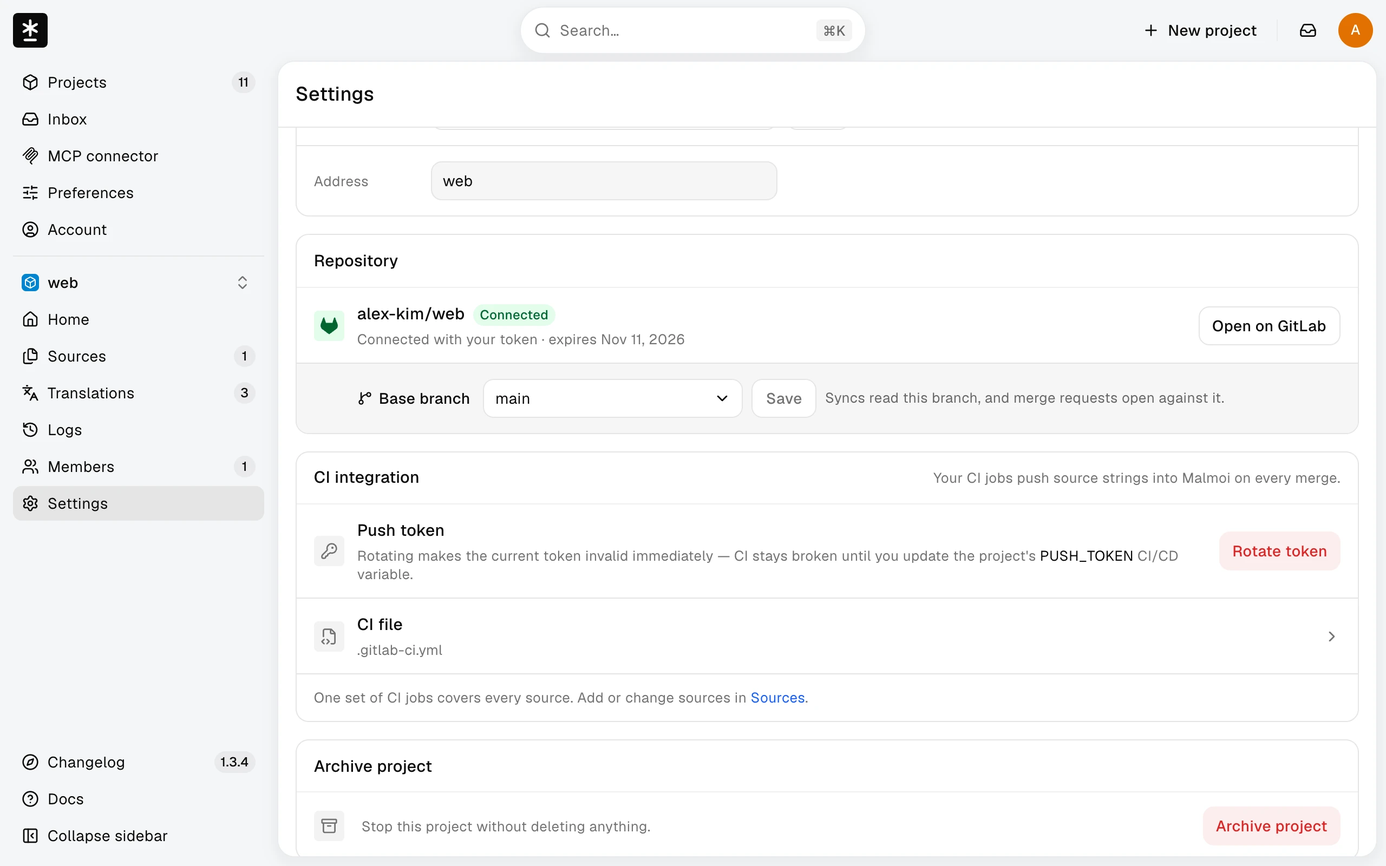
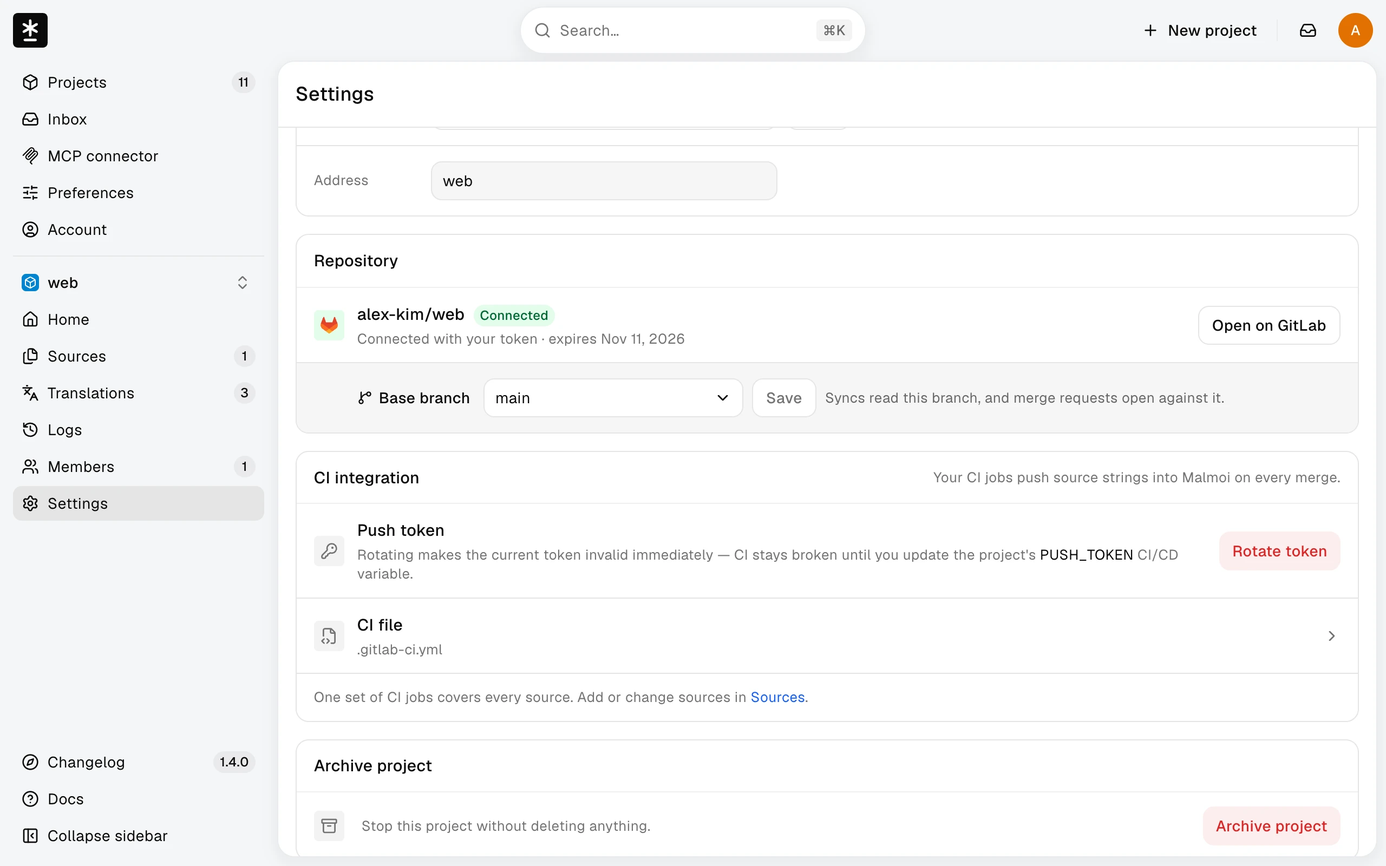
docs(guide): reshoot GitLab sign-in screenshots
Reshoot account, account-connections, sign-out-everywhere and the three
settings repository cards for the three-color GitLab glyph, the ink GitHub
glyph and the GitLab sign-in method row. The CI file dialog now shows the
pinned .gitlab-ci.yml jobs, so its screenshot moves to the Add the CI jobs
section in all three languages. Five cuts whose screen did not change get
their recorded SHAs updated.

diff --git a/guide/SHOOTING.md b/guide/SHOOTING.md
@@ -117,7 +117,7 @@
 | `/guide/mcp-create-token.webp` | `ai-agents/token.md#token` | EDITOR | MCP connector → Create token 모달 ①단계(만들지 않음 — ② 토큰 원문은 찍지 않는다) |
 | `/guide/mcp-connector.webp` | `ai-agents/browser.md#connected-apps` | OWNER | MCP connector — Connected apps(연결 둘, 로고 칸) + 토큰 카드(원문 없음) — Connect 카드는 2026-09-30에 걷었다 |
 | `/guide/gitlab-connect.webp` | `gitlab/create.md#select-repository` | OWNER | ①단계 GitLab 탭 — 연결 계정 줄(만료일 · Replace token) + 프로젝트 목록, `malmoi-gitlab-test` 선택 + Branch `main` |
-| `/guide/gitlab-ci-file.webp` | `gitlab/ci.md#ci-unavailable` | OWNER | GitLab 프로젝트 Settings → CI integration → CI file 모달 — 지금은 CI 파일 미릴리스 안내(릴리스 SHA가 채워지면 YAML·변수 안내로 바뀐다 — 그때 재촬영하고 `#gitlab-ci`로 옮길지 `/guide`가 정한다) |
+| `/guide/gitlab-ci-file.webp` | `gitlab/ci.md#gitlab-ci` | OWNER | GitLab 프로젝트 Settings → CI integration → CI file 모달 — 생성된 `.gitlab-ci.yml` 작업(릴리스 SHA 고정, `MALMOI_I18N_API_URL` 줄은 호스팅 출력에 없다 — 화면 아래라 컷 밖) |
 | `/guide/gitlab-repository-card.webp` | `gitlab/troubleshooting.md#gitlab-access` | OWNER | GitLab 프로젝트 Settings — Repository 카드(연결 행 · `Connected with your token · expires …` · Base branch)를 패널 위쪽으로 스크롤 |
 | `/guide/oauth-consent.webp` | `ai-agents/browser.md#browser` | OWNER | `/oauth/authorize` 동의 화면 — claude.ai CIMD 요청(Authorize 누르지 않음), Translate & publish 하나 체크 |
 | `/guide/create-github-install.webp` | `github/create.md#connect-github` | EDITOR(GitHub 미연결 계정) | ①단계 GitHub 탭 미연결 — Connect your repositories · Install GitHub App · Connect your account |
@@ -165,7 +165,7 @@
 | /guide/sources.webp | components/sources/sources-screen.tsx, components/sources/source-status.tsx | 9c56251ca5cb419d3cdf7659f9aade9512fa9eaf, 3df5a25bcf1d94eee8d15176730ab652a9c18a9c | 2560x1600 |
 | /guide/add-sources.webp | components/sources/add-sources-modal.tsx | 3a68b93e1836d12f8bef9de4e7aad708b0aa3f7c | 2560x1600 |
 | /guide/archive-card.webp | components/settings/archive-card.tsx | fbf5ba1bd7b87ff3c8ea910d2876d810b3deb440 | 2560x1600 |
-| /guide/accept-invitation.webp | app/invite/[token]/page.tsx, components/invite/project-card.tsx, components/signin/auth-layout.tsx | 1478fc3b94bfa1813c8467467b00b3cda61aa0b4, f9d7dc35d9d0493e3105516374f0e78a24ad7fe2, ba72c94d3b0d2211607221055fa104ef50e4b032 | 2560x1600 |
+| /guide/accept-invitation.webp | app/invite/[token]/page.tsx, components/invite/project-card.tsx, components/signin/auth-layout.tsx | d4d36ad336ad4d41488b964252c22a299fd49457, f9d7dc35d9d0493e3105516374f0e78a24ad7fe2, ba72c94d3b0d2211607221055fa104ef50e4b032 | 2560x1600 |
 | /guide/state-filter.webp | components/translations/workspace/filter-menu.tsx, components/translations/workspace/key-list.tsx, dict:translations.workspace.filters.state.any, dict:translations.workspace.filters.state.incomplete, dict:translations.workspace.filters.state.unsent, dict:translations.workspace.filters.state.review, dict:translations.workspace.filters.state.new | 0d6e722c777ce3d4d3cdba98015793f38c2cbb4a, 2c42ea96c69fe2f89dd975ed4d0435bab8f2df2b, b823bb9b42b3672439670b5267fe5328d7524380, 387fd1bbc18419e26c612f4acad9213e5073ade4, 0d09fa0d8c890b48da20aefe409a39eb962b5114, 33a506cf6ec5a56c261838f0a5a3d29cd7f2dacc, 56539cd31aeb7453fb2900c2952b988146fd6127 | 2560x1600 |
 | /guide/inbox-open.webp | components/shell/attention-inbox.tsx, lib/home/attention-view.ts, lib/inbox/plan.ts, components/inbox/row-slots.tsx | 923e6db193fd4c529d08b90415ec621c149ea0b2, edbbb141b2877391ee384376b69298ae30d301da, 4145fd76f2c3729a2975d9c5f53c87195e710f80, 733b1e879b07ca09c03a8687fde5d75a037fde68 | 2560x1600 |
 | /guide/inbox-page.webp | app/(edit)/inbox/page.tsx, components/inbox/inbox-list.tsx, components/inbox/row-slots.tsx, lib/inbox/plan.ts | df74c31a4dd36d61615638890d73981e0d854782, be439ea0b57a08136990b9c26fa176cb9a84c38e, 733b1e879b07ca09c03a8687fde5d75a037fde68, 4145fd76f2c3729a2975d9c5f53c87195e710f80 | 2560x1600 |
@@ -175,43 +175,43 @@
 | /guide/revert-confirm.webp | components/translations/workspace/workspace.tsx, components/translations/edit-loss-banner.tsx, components/translations/workspace/key-list.tsx | c1c8ccf51ce92d39c56260381fe756aefc9ca6bb, 1c1091fe8e495bea05b41e9022bb758b522c15e4, 2c42ea96c69fe2f89dd975ed4d0435bab8f2df2b | 2560x1600 |
 | /guide/sync-discard.webp | components/home/sync-button.tsx | 03c75034b48b58f0208b5c625d2e2f4ef7a18b35 | 2560x1600 |
 | /guide/logs-event.webp | components/logs/event-dialog.tsx, components/logs/event-detail.tsx | f76913a6d8972a169402769e9951ef6dbb9a79bb, 60f6fc110edf8df5e7774b2c1aa1cdd4f4c05998 | 2560x1600 |
-| /guide/account.webp | app/(edit)/account/page.tsx, components/account/profile-picture.tsx, components/account/login-methods.tsx, components/account/github-section.tsx, components/account/gitlab-section.tsx | 42fb47a6e8fbe410344cb6fa3c9613d02b207abf, c4ea53b3f682c942003dac5b81bb7eb80a72d269, a81d7ab6bacf7642a6b95a090713b81d89ed1be4, 555c889cb02f999c49bd06e0fc72c5c331e7d814, 1df2241c8121b251f5f7c4db906828937ed0ded4 | 2560x1600 |
+| /guide/account.webp | app/(edit)/account/page.tsx, components/account/profile-picture.tsx, components/account/login-methods.tsx, components/account/github-section.tsx, components/account/gitlab-section.tsx | 3a7b63f8d153d5bd28e8c5f01885937aa5697952, c4ea53b3f682c942003dac5b81bb7eb80a72d269, 533e6a97c384e8720357073991cd99e8e4ae2fe5, 14e5cf37c07bc1e566ce9aa32ce6392663269af2, 1925ee36a6dc1bb83791d096b39fb13bdc845490 | 2560x1600 |
 | /guide/footer-language-menu.webp | components/i18n/locale-switcher.tsx, lib/i18n/locales.ts | c71d7813e91fdb33e9144151d6dcdf1f5f34d12d, 7ae40a45e0677ae93a26e331d74bda1680d403da | 2560x1600 |
 | /guide/preferences-language.webp | app/(edit)/preferences/page.tsx, components/preferences/language-card.tsx, components/preferences/time-zone-card.tsx, components/preferences/preference-select-card.tsx, components/preferences/theme-card.tsx, dict:uiLocale.label, dict:preferences.help | ba45481f1bad944a5b4582d56b5ea6e84e141d6e, 35fad581fb2f5b7b9ab4b854151513f55fa608bd, e89003ad1ccfc47db86ab5c6afc09e6f95d6aefb, b3369b152d1f9da4cc00f01dddb6fc036d14d504, 746bc2ed9e956bd3947b9a0aed92e406ae32af56, 89b86ab0e66f527166d98df92ddbcf5416ed58f6, 7a750458e565a71d07b3e10a45654499a58c2673 | 2560x1600 |
 | /guide/mcp-create-token.webp | components/mcp/token-modal.tsx, components/mcp/token-grant-fields.tsx | c96820a9c8869d021052c5873b0404cfc8e3e7b4, ad7e6129db1f932a7d9ef42b0d18756abe81552f | 2560x1600 |
 | /guide/mcp-connector.webp | components/mcp/connected-apps-card.tsx, components/mcp/token-card.tsx | d1b7da7f5c88d00c7e5ec339af86bf1e4f8cc8de, 6ee9dfbfd2a737c4009610cbf1b0ffc140cc874c | 2560x1600 |
-| /guide/oauth-consent.webp | app/oauth/authorize/page.tsx, components/oauth/consent-panel.tsx, components/oauth/app-card.tsx, components/mcp/token-grant-fields.tsx | e838a660b030cfd1a10c80729ef68068e3449581, 6dbe67b7adc44b561d2d6eda73322f83e93e8cae, f84a8047e035ed76fe1411941a3c8086844c4455, ad7e6129db1f932a7d9ef42b0d18756abe81552f | 2560x1600 |
+| /guide/oauth-consent.webp | app/oauth/authorize/page.tsx, components/oauth/consent-panel.tsx, components/oauth/app-card.tsx, components/mcp/token-grant-fields.tsx | 24d99a8ad9ff2ba3cc7ae04a9e8c458dd937711f, 6dbe67b7adc44b561d2d6eda73322f83e93e8cae, f84a8047e035ed76fe1411941a3c8086844c4455, ad7e6129db1f932a7d9ef42b0d18756abe81552f | 2560x1600 |
 | /guide/create-repository.webp | components/onboarding/new-project.tsx, components/onboarding/steps/repo.tsx | d082e1b6ca92373b70ca7b151c439d7a15358521, 4b0847a050c26dfcdef9e4cdd55d272587a1ab0f | 2560x1600 |
 | /guide/create-files.webp | components/onboarding/new-project.tsx, components/onboarding/steps/files.tsx | d082e1b6ca92373b70ca7b151c439d7a15358521, fceda1dfa1ca991fe98dfded0d8a65d12df6b4e2 | 2560x1600 |
 | /guide/create-name.webp | components/onboarding/new-project.tsx, components/onboarding/steps/naming.tsx | d082e1b6ca92373b70ca7b151c439d7a15358521, 1807e066e59178bc07308716bfcf6e17f5e0b79d | 2560x1600 |
 | /guide/create-ready.webp | components/onboarding/new-project.tsx, components/onboarding/steps/result.tsx, components/onboarding/workflow-block.tsx | d082e1b6ca92373b70ca7b151c439d7a15358521, 605e3daa3a6276eee53cf7564ad57f7cb2e406d8, e0ac1f57f9f9030693e91490d78a1e8fb03714ec | 2560x1600 |
 | /guide/gitlab-connect.webp | components/onboarding/new-project.tsx, components/onboarding/steps/repo.tsx | d082e1b6ca92373b70ca7b151c439d7a15358521, 4b0847a050c26dfcdef9e4cdd55d272587a1ab0f | 2560x1600 |
-| /guide/gitlab-ci-file.webp | components/settings/ci-card.tsx, components/onboarding/workflow-block.tsx, lib/onboarding/gitlab-ci.ts | fac88a0789fb7a98772a4a91085c4fbaa86099c9, e0ac1f57f9f9030693e91490d78a1e8fb03714ec, 680955099d6eadca5883fef2aa440e160a83a0db | 2560x1600 |
-| /guide/gitlab-repository-card.webp | components/settings/repository-card.tsx, app/(edit)/projects/[slug]/settings/page.tsx | 44acf6af93b147e5ee63ee750a0ca8636ef6fb4b, 47ff29741aedf6c233ce93830805293f203573da | 2560x1600 |
+| /guide/gitlab-ci-file.webp | components/settings/ci-card.tsx, components/onboarding/workflow-block.tsx, lib/onboarding/gitlab-ci.ts | fac88a0789fb7a98772a4a91085c4fbaa86099c9, e0ac1f57f9f9030693e91490d78a1e8fb03714ec, 13c632fbd9567a0f78f2d1193f18ab3a9fdaf0fe | 2560x1600 |
+| /guide/gitlab-repository-card.webp | components/settings/repository-card.tsx, app/(edit)/projects/[slug]/settings/page.tsx | 9c39b9487042b401f4d16811dc3087bda0d389ac, 47ff29741aedf6c233ce93830805293f203573da | 2560x1600 |
 | /guide/create-github-install.webp | components/onboarding/new-project.tsx, components/onboarding/steps/repo.tsx | d082e1b6ca92373b70ca7b151c439d7a15358521, 4b0847a050c26dfcdef9e4cdd55d272587a1ab0f | 2560x1600 |
 | /guide/github-app-install-target.webp | lib/github-connect/installation-url.ts | 911b45fddf7075c17cfb982ec66b9a0018f35afa | 2560x1600 |
 | /guide/github-app-install.webp | lib/github-connect/installation-url.ts | 911b45fddf7075c17cfb982ec66b9a0018f35afa | 2560x1600 |
 | /guide/gitlab-connect-token.webp | components/onboarding/new-project.tsx, components/onboarding/steps/repo.tsx, components/gitlab/token-form.tsx | d082e1b6ca92373b70ca7b151c439d7a15358521, 4b0847a050c26dfcdef9e4cdd55d272587a1ab0f, ef2b5e0bf7f45739b6266ccbc8e892cd3738934a | 2560x1600 |
 | /guide/gitlab-pat-form.webp | components/gitlab/token-form.tsx | ef2b5e0bf7f45739b6266ccbc8e892cd3738934a | 2560x1600 |
 | /guide/gitlab-pat-scopes.webp | components/gitlab/token-form.tsx | ef2b5e0bf7f45739b6266ccbc8e892cd3738934a | 2560x1600 |
-| /guide/gitlab-ci-variable.webp | lib/onboarding/gitlab-ci.ts | 680955099d6eadca5883fef2aa440e160a83a0db | 2560x1600 |
-| /guide/gitlab-protected-branch.webp | lib/onboarding/gitlab-ci.ts | 680955099d6eadca5883fef2aa440e160a83a0db | 2560x1600 |
+| /guide/gitlab-ci-variable.webp | lib/onboarding/gitlab-ci.ts | 13c632fbd9567a0f78f2d1193f18ab3a9fdaf0fe | 2560x1600 |
+| /guide/gitlab-protected-branch.webp | lib/onboarding/gitlab-ci.ts | 13c632fbd9567a0f78f2d1193f18ab3a9fdaf0fe | 2560x1600 |
 | /guide/home-sync-tab.webp | app/(edit)/projects/[slug]/(home)/page.tsx, components/home/meta-column.tsx, components/home/meta-tabs.tsx, components/home/sync-result.tsx | e1da6ab9dc0773da5c543619d85b06efba41cbb2, 0e67fc7c827d5c28da3bf0c9f7ea71a127c27c6f, 326a71e9fadefec3992bad2e9acf0192fa107a35, aca196a214f9e8e6c9f460da7126300de24fc04a | 2560x1600 |
 | /guide/logs-list.webp | app/(edit)/projects/[slug]/logs/page.tsx, components/logs/log-filters.tsx, components/logs/event-row.tsx | 965a0af77acd975284dd5de8cec3b7b17207000a, 8d9380cf37e4a71f31ad628ab2131e396c341f3a, b4f3a62675838cb0380dbae298687702ad170009 | 2560x1600 |
 | /guide/source-details.webp | components/sources/source-detail-modal.tsx, components/sources/base-language-form.tsx | fef5657793714485d4690894b1102340e7ee2821, dc1f4eafdd1817c41cb726570ce4a87edeb05144 | 2560x1600 |
 | /guide/source-remove.webp | components/sources/remove-source-dialog.tsx, components/sources/source-detail-modal.tsx | 5eb13a9ed0df2a070105176aae30556177423001, fef5657793714485d4690894b1102340e7ee2821 | 2560x1600 |
 | /guide/archive-restore.webp | components/settings/archive-card.tsx, app/(edit)/projects/[slug]/settings/page.tsx | fbf5ba1bd7b87ff3c8ea910d2876d810b3deb440, 47ff29741aedf6c233ce93830805293f203573da | 2560x1600 |
-| /guide/account-connections.webp | components/account/github-section.tsx, components/account/gitlab-section.tsx, components/account/sessions-section.tsx | 555c889cb02f999c49bd06e0fc72c5c331e7d814, 1df2241c8121b251f5f7c4db906828937ed0ded4, 9255317efca816245aef826e503af31e545a22e9 | 2560x1600 |
-| /guide/sign-out-everywhere.webp | components/account/sessions-section.tsx | 9255317efca816245aef826e503af31e545a22e9 | 2560x1600 |
+| /guide/account-connections.webp | components/account/github-section.tsx, components/account/gitlab-section.tsx, components/account/sessions-section.tsx | 14e5cf37c07bc1e566ce9aa32ce6392663269af2, 1925ee36a6dc1bb83791d096b39fb13bdc845490, 4e732e70ca663f3f9cbc6e5616c2d3ac550f6412 | 2560x1600 |
+| /guide/sign-out-everywhere.webp | components/account/sessions-section.tsx | 4e732e70ca663f3f9cbc6e5616c2d3ac550f6412 | 2560x1600 |
 | /guide/preferences-time-zone.webp | components/preferences/time-zone-card.tsx, components/preferences/preference-select-card.tsx | e89003ad1ccfc47db86ab5c6afc09e6f95d6aefb, b3369b152d1f9da4cc00f01dddb6fc036d14d504 | 2560x1600 |
-| /guide/invite-unavailable.webp | app/invite/[token]/page.tsx | 1478fc3b94bfa1813c8467467b00b3cda61aa0b4 | 2560x1600 |
+| /guide/invite-unavailable.webp | app/invite/[token]/page.tsx | d4d36ad336ad4d41488b964252c22a299fd49457 | 2560x1600 |
 | /guide/global-search.webp | components/search/search-dialog.tsx | db77550c790611dc205739a8e22e70ab6949ea49 | 2560x1600 |
 | /guide/translation-edit.webp | components/translations/workspace/locale-panel.tsx, components/translations/workspace/key-list.tsx, components/translations/workspace/workspace.tsx | 16a52148f9dd92485ab8e8c1df19e4045de91a50, 2c42ea96c69fe2f89dd975ed4d0435bab8f2df2b, c1c8ccf51ce92d39c56260381fe756aefc9ca6bb | 2560x1600 |
 | /guide/unsaved-changes.webp | components/translations/workspace/workspace.tsx | c1c8ccf51ce92d39c56260381fe756aefc9ca6bb | 2560x1600 |
-| /guide/github-repository-card.webp | components/settings/repository-card.tsx, app/(edit)/projects/[slug]/settings/page.tsx | 44acf6af93b147e5ee63ee750a0ca8636ef6fb4b, 47ff29741aedf6c233ce93830805293f203573da | 2560x1600 |
+| /guide/github-repository-card.webp | components/settings/repository-card.tsx, app/(edit)/projects/[slug]/settings/page.tsx | 9c39b9487042b401f4d16811dc3087bda0d389ac, 47ff29741aedf6c233ce93830805293f203573da | 2560x1600 |
 | /guide/repository-not-listed.webp | components/onboarding/steps/repo.tsx, components/onboarding/new-project.tsx | 4b0847a050c26dfcdef9e4cdd55d272587a1ab0f, d082e1b6ca92373b70ca7b151c439d7a15358521 | 2560x1600 |
 | /guide/rotate-token.webp | components/settings/push-token-panel.tsx, components/settings/ci-card.tsx | d6f18734ba4ba7bdf579e8c0916a1c458bb1e8cb, fac88a0789fb7a98772a4a91085c4fbaa86099c9 | 2560x1600 |
-| /guide/gitlab-token-expiring.webp | components/settings/repository-card.tsx | 44acf6af93b147e5ee63ee750a0ca8636ef6fb4b | 2560x1600 |
+| /guide/gitlab-token-expiring.webp | components/settings/repository-card.tsx | 9c39b9487042b401f4d16811dc3087bda0d389ac | 2560x1600 |
 | /guide/gitlab-token-refused.webp | components/onboarding/steps/repo.tsx, components/gitlab/token-form.tsx | 4b0847a050c26dfcdef9e4cdd55d272587a1ab0f, ef2b5e0bf7f45739b6266ccbc8e892cd3738934a | 2560x1600 |
 
 - ⚠ **셸이 컷에 들어간 뒤로 LNB·패널 머리·카드 머리(`components/shell/**`·`components/ui/panel-card.tsx` 등)의 변경도 모든 컷을 낡게 한다** — 소스로 올리면 신호가 죽으므로(`messages/en.tsx`와 같은 이유) 올리지 않는다. 셸을 바꿨으면 컷 전체를 손으로 다시 본다.
@@ -280,3 +280,4 @@
 - 2026-10-13 gitlab-repositories GS — `guide:check` stale 14컷(22건) 정리 + GitLab 컷 셋 **추가**. **재촬영 6**(1280×800 · DPR 2, WebP quality 90): `project-home` · `home-publish`(Home Project 탭에 `Platform` 행 — GitHub 글리프 + 이름) · `publish-preview` · `publish-result`(Dim 뒤 Home 메타 열이 그 행만큼 내려갔다) · `account`(맨 아래 `GitLab PAT` 카드가 섰다 — 매핑에 `gitlab-section.tsx`를 더했다) · `create-repository`(① 머리에 `GitHub | GitLab` 탭). **SHA만 갱신 8** — 새 캡처를 기존 파일과 픽셀 대조(채널 합 60 초과)해 차이가 셸 배지(Projects 10→11 · Changelog 1.3.1→1.3.4)·상대 시각·Dim 뒤 흐린 목록뿐임을 확인했다: `workflow-file`(GitHub 프로젝트는 같은 경로·힌트 링크) · `translation-editor` · `revert-confirm`(`RepoHostScope` 감싸기·이탈 가드 로직) · `sources`(호스트 글리프 분기 + sr-only 이름) · `home-paused`(Sync 탭 — `Platform` 행은 Project 탭에만 선다) · `create-files` · `create-name`(②③ 대화상자 차이 0) · `create-ready`(**재캡처 없음** — ④는 일회용 프로젝트가 필요하다. `result.tsx`·`workflow-block.tsx`·`new-project.tsx`의 ④ 변경은 전부 `forHost(…, "github")`가 원래 노드를 돌려주는 GitLab 갈래이고 GitHub 출력은 같다). **추가 3**: `gitlab-connect`(`create/gitlab.md#select-repository` — 단계 목록 뒤) · `gitlab-ci-file`(`create/gitlab-ci.md#ci-unavailable` — 지금 화면이 미릴리스 안내라 그 절에 두었다. 매핑에 `lib/onboarding/gitlab-ci.ts`를 올려 릴리스 SHA가 채워지면 stale이 된다) · `gitlab-repository-card`(`reference/troubleshooting-gitlab.md#gitlab-access` — 설정 카드를 설명하는 유일한 절이다. `connect-gitlab`은 ① 컷이 이미 그 작업 페이지의 한 장이고 연결 계정 줄도 그 컷에 있다). 세 언어 원고에 같은 경로로 참조를 넣었다(이번 런 예외 승인 — alt·title은 언어별). 셋업: GitLab 프로젝트 `malmoi-gitlab-test`(dev DB 상주, `ox501501/malmoi-gitlab-test` · PAT 만료 2026-11-11 — 14일 밖이라 만료 예정 띠 없음)를 그대로 썼고 PAT를 다시 넣지 않았다. ①의 GitLab 탭은 프로젝트를 고르고 Branch `main`까지만(Next 안 누름). 테마는 계정 값(`dark`)을 바꾸지 않고 캡처 직전 `<html data-theme>`을 `light`로 바꿨다(+ `prefers-color-scheme: light` 에뮬레이션). OWNER `checkout.submit` de `Jetzt bestellen` → `home-paused`·`revert-confirm` 대조 캡처 → 실제 Revert · EDITOR(Google) `checkout.submit` fr `Passer la commande` → `home-publish`·`publish-preview`(PR 안 엶) → 빈 값 재저장 → Publish(`Nothing differs`) → `publish-result` → OWNER(GitHub)로 재로그인. 전후 대조: 미전달 0→0(전 프로젝트), `acme-web` 사건 68→73(편집·Revert · 편집·재저장·Publish), 전체 사건 740→745, OAuth 연결·API 토큰 0→0, `GitLabConnection` 1건 그대로(만료·갱신 시각 불변), 계정 언어·테마·`attentionSeenAt` 불변, GitHub 쓰기 없음, GitLab 테스트 프로젝트는 `main`만 · 열린 MR 0 그대로. ⚠ **새로 밟은 것**: ① GitLab 치환(`ox501501` → `alex-kim`)을 OWNER 이메일 정규식(`ox501…@gmail.com`)보다 먼저 걸면 주소가 `alex-kim@gmail.com`이 됐다가 일반 gmail 치환에 `jordan.lee@…`로 바뀐다 — GitLab 쌍은 사람 치환 **뒤에** 건다. ② ①의 GitLab 목록은 탭을 처음 열 때 서버가 GitLab을 부른다 — 라디오가 설 때까지 기다린다. ③ ①의 GitLab 대화상자는 GitHub 탭보다 낮아 세로 위치가 다르다(목록 둘).
 - 2026-10-13 **Create 장 분리 + 컷 25장 추가**(사용자 — "앱 설치·PAT 발급 과정을 더 찍어", "깃헙·깃랩 각각 트러블슈팅 가이드 — 에러 상황 재현", "가이드 전체를 확인하고 스크린샷 적극 추가"). 추가(전부 1280×800 · DPR 2): ① 만들기 — `create-github-install`(EDITOR 계정이 GitHub 미연결이라 그 세션으로) · `github-app-install-target` · `github-app-install`(github.com, 설치 확정 안 함) · `gitlab-connect-token`(EDITOR 세션, GitLab 미연결) · `gitlab-pat-form` · `gitlab-pat-scopes`(gitlab.com 프리필 링크, 토큰 안 만듦) · `gitlab-ci-variable`(서랍 Cancel — 저장 안 함) · `gitlab-protected-branch`. ② 설정·동기화·계정·번역 — `home-sync-tab` · `logs-list` · `source-details` · `source-remove`(Cancel) · `archive-restore`(보관된 `audit-q-261007`, Restore 안 누름) · `account-connections` · `sign-out-everywhere`(Cancel) · `preferences-time-zone` · `invite-unavailable` · `global-search` · `translation-edit` · `unsaved-changes`(Escape로 입력 되돌림 — 저장 0). ③ 트러블슈팅 재현 — `github-repository-card` · `repository-not-listed`(없는 검색어) · `rotate-token`(Cancel) · `gitlab-token-refused`(가짜 토큰 `glpat-…`으로 Replace token — GitLab 401, 저장 0) · `gitlab-token-expiring`(개발 DB `GitLabConnection.expiresAt`을 그 id로 좁혀 촬영 동안만 10월 23일로 앞당기고 원래 값 2026-11-11로 되돌림). **못 찍은 것**: GitHub Actions·GitLab 파이프라인의 현행(v3) 실패 로그 — 테스트 리포에 남은 실행은 옛 v1(한국어 출력)뿐이고, 새로 만들려면 리포에 시크릿을 써야 한다. `Sync failed` 홈 — 개발 DB에 실패 사건이 없고, 만들면 상주 프로젝트 Logs에 지울 수 없는 사건이 남는다. 테마 메뉴 — 촬영 계정 테마가 Dark라 메뉴 값이 컷의 라이트 화면과 어긋난다. **SHA만 갱신 2**: `workflow-file` · `gitlab-ci-file` — `ci-card.tsx`는 가이드 링크 경로(`setup/*` → `create/*`)와 주석만 바뀌어 화면이 같다.
 - 2026-10-13 GitLab 감사 리팩터 QA — `guide:check` stale 17컷(19건) 전부 **재촬영 없이 SHA만 갱신**. 바뀐 소스 여섯의 diff가 화면을 바꾸지 않는다: `gitlab-section.tsx`·`steps/repo.tsx`·`repository-card.tsx`는 만료일 생산자 `formatDay`→`formatDateOnly`(결정 R1 — en·UTC에서 둘 다 `Nov 11, 2026`·`Oct 23, 2026`을 낸다고 실측했고, 촬영 계정 시간대는 UTC다) · `token-form.tsx`는 거부 매핑 함수 교체(`gitlabTokenErrorMessage` — GitLab 거부는 같은 `gitlabConnectErrorMessage` 문장으로 떨어진다. 같은 날 `/account` 폼에서 가짜 토큰 거부 문장 `GitLab didn't accept this token…`을 실측했다) · `ci-card.tsx`는 GitLab 힌트 링크의 href(`create/gitlab-ci` → `gitlab/ci`)와 주석 · `sync-result.tsx`는 실행권 전 거부 집합에 `gitlab-project-disconnected` 하나(컷은 성공 결과다). 대조 캡처 둘(`account-connections` · `gitlab-repository-card`, OWNER, 1280×800 · DPR 2)을 기존 파일과 픽셀 대조했다 — 차이는 목록 구역 썸네일 치환 타일 색·아바타 글자(촬영 치환물)와 스크롤 0.3px 반올림뿐이었다(반영하지 않았다). DB·계정 쓰기 없음(같은 세션의 런타임 QA가 GitLab 연결 해제·재연결로 `GitLabConnection` id를 바꿨지만 만료일·사용자명은 같다 — `Connected` 화면 그대로).
+- 2026-10-13 gitlab-oauth GS — `guide:check` stale 12컷(17건) 정리. **재촬영 7**(1280×800 · DPR 2, WebP quality 90, OWNER): `account`(Sign-in methods `3 of 3` — GitLab 행이 서고 GitLab 글리프가 3색 · GitHub 글리프가 잉크 — 그만큼 `GitLab PAT` 카드가 접힘 아래로 내려갔다) · `account-connections` · `sign-out-everywhere`(같은 3색·잉크 글리프. 확인창 문장은 OWNER 확인 상대가 GitHub라 그대로) · `github-repository-card`(Repository 카드 GitHub 글리프가 성공 톤 초록 → 잉크, `BrandGlyph`) · `gitlab-repository-card` · `gitlab-token-expiring`(3색 글리프 — 개발 DB `GitLabConnection.expiresAt`을 그 id로 좁혀 촬영 동안만 앞당기고 원래 값으로 되돌림) · `gitlab-ci-file`(`89b27c21`이 `GITLAB_CI_RELEASE.sha`를 채워 CI file 모달이 미릴리스 안내 → 실제 YAML. 지휘자 승인으로 세 언어 원고의 참조를 `gitlab/ci.md#ci-unavailable` → `#gitlab-ci`로 옮기고 alt·title을 고쳤다). **SHA만 갱신 5**: `accept-invitation` · `oauth-consent`(바뀐 것은 로그아웃 상태의 로그인 버튼(`ProviderIcon`·`m.signIn[provider]`)뿐이고 두 컷은 로그인한 수락·동의 화면이다) · `invite-unavailable`(재캡처 대조 — 눈으로 같은 화면, 버튼 없음) · `gitlab-ci-variable` · `gitlab-protected-branch`(gitlab.com 화면 — `gitlab-ci.ts`의 SHA 한 줄은 그 폼에 안 들어간다). `/signin` 컷은 만들지 않았다 — 로그인 수단 셋은 `account`의 Sign-in methods가 보이고 `/signin`은 버튼 셋뿐이라 그림이 독자에게 더할 것이 없다. 계정·DB 쓰기는 만료일 임시 변경 하나(원복 확인). ⚠ **새로 밟은 것**: ① `.scratch/gitlab-expiry.ts`의 `set`에 `…Z` ISO를 주면 `expiresAt`(timestamp without time zone)에 시간대가 떨어진 채 저장돼 9시간 어긋난다 — 원래 저장값 `2026-11-11 00:00:00`처럼 **`Z` 없는 로컬 리터럴**로 준다. ② 캡처 직전 `data-theme`을 dark → light로 바꾸면 전환 중간 프레임(검은 검색창·버튼)이 찍힌다 — 바꾼 뒤 2.5초 기다린다.

diff --git a/guide/es/gitlab/ci.md b/guide/es/gitlab/ci.md
@@ -21,6 +21,8 @@ Antes de empezar: ten a mano el token de push de la página **Malmoi está listo
 1. Copia los jobs de la página **Malmoi está listo**, o más tarde desde **Configuración** con **Archivo de CI**, y añádelos a `.gitlab-ci.yml` en la raíz del repositorio. Si el archivo ya existe, añádelos a él.
 2. Haz commit del archivo en la rama base.
 
+![El diálogo Archivo de CI en la Configuración de Malmoi con los jobs de .gitlab-ci.yml generados y un botón Copiar](/guide/gitlab-ci-file.webp "Copia los jobs y añádelos a .gitlab-ci.yml en la rama base.")
+
 Hay un job por cada fuente, y los nombres de los jobs incluyen la dirección del proyecto, así que dos proyectos de un mismo repositorio no sobrescriben los jobs del otro. Los jobs solo se ejecutan con commits nuevos en la rama base y omiten los commits que contienen `[skip-malmoi-i18n]`. Usan la etapa `test`; si tu archivo define su propia lista `stages:`, conserva `test` en ella. El runner debe poder llegar a `github.com` (cada job descarga el script de Malmoi en una versión fija), `registry.npmjs.org`, Docker Hub (los jobs usan la imagen oficial de Node.js) y Malmoi.
 
 Si tu código lee las traducciones mediante una función envoltorio, rellena `MALMOI_I18N_WRAPPER` (vacío de forma predeterminada) en el `variables:` del job de esa fuente, con un envoltorio por línea. Usa `module#export` para una función directa, o añade `()` para un hook, como `next-intl#useTranslations()`. Ayuda a Malmoi a encontrar referencias de código; no decide qué claves de traducción existen. Para cambiar la rama base más adelante, cambia **Rama base** en **Configuración** y edita el valor `MALMOI_I18N_BASE_BRANCH`. Cuando añadas fuentes, vuelve a copiar el archivo completo desde **Configuración** y reemplaza con él los jobs de Malmoi.
@@ -28,8 +30,6 @@ Si tu código lee las traducciones mediante una función envoltorio, rellena `MA
 ## Si el archivo de CI no está disponible {#ci-unavailable}
 
 Si Malmoi indica que el archivo de CI de GitLab aún no está disponible en esta versión de Malmoi, no hay jobs que copiar. Guarda igualmente el token de push; hasta que el archivo de CI esté disponible, la [ejecución nocturna](../sync/nightly.md#repository-changes) y **Sincronizar** cargan los cambios del repositorio. Un [cambio de idioma base](../setup/sources.md#base-language) solo se aplica mediante los jobs de CI, así que espera hasta que los añadas.
-
-![El diálogo Archivo de CI en la Configuración de Malmoi indica que el archivo de CI de GitLab aún no está disponible en esta versión de Malmoi](/guide/gitlab-ci-file.webp "Hasta que el archivo de CI esté disponible, guarda el token de push; la ejecución nocturna y Sincronizar cargan los cambios del repositorio.")
 
 ## Ejecútalo y compruébalo {#first-run}
 

diff --git a/guide/ko/gitlab/ci.md b/guide/ko/gitlab/ci.md
@@ -21,6 +21,8 @@
 1. **Malmoi 준비 완료** 페이지에서, 또는 나중에 **설정**의 **CI 파일**에서 작업을 복사해 리포지토리 루트의 `.gitlab-ci.yml`에 추가합니다. 파일이 이미 있으면 그 안에 덧붙입니다.
 2. 기준 브랜치에 파일을 커밋합니다.
 
+![생성된 .gitlab-ci.yml 작업과 복사 버튼이 있는 Malmoi 설정의 CI 파일 대화상자](/guide/gitlab-ci-file.webp "작업을 복사해 기준 브랜치의 .gitlab-ci.yml에 추가합니다.")
+
 소스마다 작업이 하나씩 있고, 작업 이름에 프로젝트 주소가 들어가므로 한 리포지토리의 두 프로젝트가 서로의 작업을 덮어쓰지 않습니다. 작업은 기준 브랜치에 새 커밋이 들어올 때만 실행되며, `[skip-malmoi-i18n]`이 든 커밋은 건너뜁니다. 작업은 `test` 단계(stage)를 씁니다. 파일에 `stages:`를 직접 정의했다면 그 목록에 `test`를 남겨 두세요. 러너는 `github.com`(작업마다 고정된 버전의 Malmoi 스크립트를 받아 옵니다), `registry.npmjs.org`, Docker Hub(작업은 공식 Node.js 이미지를 씁니다), Malmoi에 접속할 수 있어야 합니다.
 
 코드가 래퍼 함수로 번역을 읽는다면 그 소스 작업의 `variables:`에 있는 `MALMOI_I18N_WRAPPER`(기본은 빈 값)를 채우고, 한 줄에 하나씩 씁니다. 일반 함수는 `module#export`로, 훅은 `next-intl#useTranslations()`처럼 끝에 `()`를 붙여 씁니다. 이 값은 Malmoi가 코드 사용처를 찾는 데 도움을 줄 뿐, 어떤 번역 키가 있는지를 정하지는 않습니다. 나중에 기준 브랜치를 바꾸려면 **설정**에서 **기준 브랜치**를 바꾸고 `MALMOI_I18N_BASE_BRANCH` 값을 고칩니다. 소스를 추가하면 **설정**에서 파일 전체를 다시 복사해 Malmoi 작업을 그것으로 교체합니다.
@@ -28,8 +30,6 @@
 ## CI 파일을 쓸 수 없을 때 {#ci-unavailable}
 
 Malmoi에 이 버전의 Malmoi에서는 아직 GitLab CI 파일을 쓸 수 없다고 표시되면 복사할 작업이 없습니다. 그래도 푸시 토큰은 보관해 두세요. CI 파일을 쓸 수 있게 될 때까지는 [야간 실행](../sync/nightly.md#repository-changes)과 **동기화**가 리포지토리 변경 사항을 가져옵니다. [기준 언어 변경](../setup/sources.md#base-language)은 CI 작업으로만 적용되므로, 작업을 추가할 때까지 기다립니다.
-
-![이 버전의 Malmoi에서는 아직 GitLab CI 파일을 쓸 수 없다고 알려 주는 Malmoi 설정의 CI 파일 대화상자](/guide/gitlab-ci-file.webp "CI 파일을 쓸 수 있을 때까지 푸시 토큰을 보관해 두면 야간 실행과 동기화가 리포지토리 변경 사항을 가져옵니다.")
 
 ## 실행하고 확인하기 {#first-run}
 

diff --git a/guide/en/gitlab/ci.md b/guide/en/gitlab/ci.md
@@ -21,6 +21,8 @@ Before you start: Have the push token from the **Malmoi is ready** page. Store t
 1. Copy the jobs from the **Malmoi is ready** page, or later from **Settings** with **CI file**, and add them to `.gitlab-ci.yml` at the root of the repository. If the file already exists, add the jobs to it.
 2. Commit the file on the base branch.
 
+![The CI file dialog in Malmoi Settings with the generated .gitlab-ci.yml jobs and a Copy button](/guide/gitlab-ci-file.webp "Copy the jobs and add them to .gitlab-ci.yml on the base branch.")
+
 There is one job for each source, and the job names include the project address, so two projects in one repository don't overwrite each other's jobs. The jobs run only for new commits on the base branch, and they skip commits that contain `[skip-malmoi-i18n]`. They use the `test` stage; if your file lists its own `stages:`, keep `test` in that list. The runner must be able to reach `github.com` (each job fetches Malmoi's script at a fixed version), `registry.npmjs.org`, Docker Hub (the jobs use the official Node.js image), and Malmoi.
 
 If your code reads translations through a wrapper function, fill in `MALMOI_I18N_WRAPPER` (empty by default) in that source job's `variables:`, with one wrapper per line. Use `module#export` for a direct function, or append `()` for a hook, such as `next-intl#useTranslations()`. It helps Malmoi find code references; it does not decide which translation keys exist. To change the base branch later, change **Base branch** in **Settings** and edit the `MALMOI_I18N_BASE_BRANCH` value. When you add sources, copy the whole file from **Settings** again and replace Malmoi's jobs with it.
@@ -28,8 +30,6 @@ If your code reads translations through a wrapper function, fill in `MALMOI_I18N
 ## If the CI file isn't available {#ci-unavailable}
 
 If Malmoi says the GitLab CI file isn't available in this version of Malmoi yet, there are no jobs to copy. Keep the push token anyway; until the CI file is available, the [nightly run](../sync/nightly.md#repository-changes) and **Sync** load repository changes. A [base language change](../setup/sources.md#base-language) applies only through the CI jobs, so it waits until you add them.
-
-![The CI file dialog in Malmoi Settings saying the GitLab CI file isn't available in this version of Malmoi yet](/guide/gitlab-ci-file.webp "Until the CI file is available, keep the push token; the nightly run and Sync load repository changes.")
 
 ## Run and check it {#first-run}
 
